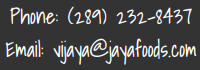
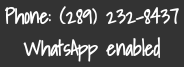
Changes to menus, font and contact info

diff --git a/css/text-menu.css b/css/text-menu.css
@@ -66,27 +66,27 @@
 }
 
 .text-menu .category.category-category1 {
-  background-image: linear-gradient(to top, rgba(238, 232, 170, 1), rgba(222, 184, 135, 1));
+  background-image: linear-gradient(to top, rgba(255, 215, 0, 1), rgba(255, 69, 0, 1));
 }
 
 .text-menu .category.category-category2 {
-  background-image: linear-gradient(to top, rgba(205, 133, 63, 1), rgba(160, 82, 45, 1));
+  background-image: linear-gradient(to top, rgba(238, 232, 170, 1), rgba(222, 184, 135, 1));
 }
 
 .text-menu .category.category-category3 {
-  background-image: linear-gradient(to top, rgba(255, 216, 92, 0.8), rgba(255, 101, 68, 1));
+  background-image: linear-gradient(to top, rgba(205, 133, 63, 1), rgba(160, 82, 45, 1));
 }
 
 .text-menu .category.category-category4 {
-  background-image: linear-gradient(to top, rgba(210, 105, 30, 1), rgba(139, 69, 19, 1));
+  background-image: linear-gradient(to top, rgba(255, 216, 92, 0.8), rgba(255, 101, 68, 1));
 }
 
 .text-menu .category.category-category5 {
-  background-image: linear-gradient(to top, rgba(50, 205, 50, 1), rgba(34, 139, 34, 1));
+  background-image: linear-gradient(to top, rgba(210, 105, 30, 1), rgba(139, 69, 19, 1));
 }
 
 .text-menu .category.category-category6 {
-  background-image: linear-gradient(to top, rgba(255, 215, 0, 1), rgba(255, 69, 0, 1));
+  background-image: linear-gradient(to top, rgba(50, 205, 50, 1), rgba(34, 139, 34, 1));
 }
 
 .text-menu .category.category-category7 {

diff --git a/index.html b/index.html
@@ -14,10 +14,9 @@
 
   <link rel="preconnect" href="https://fonts.googleapis.com">
   <link rel="preconnect" href="https://fonts.gstatic.com" crossorigin>
-<!-- 
   <link href="https://fonts.googleapis.com/css2?family=Shadows+Into+Light&display=swap" rel="stylesheet">
   <link href="https://fonts.googleapis.com/css2?family=Poppins:wght@400;700&display=swap" rel="stylesheet">
- -->
+
   <script src="https://cdnjs.cloudflare.com/ajax/libs/clipboard.js/2.0.8/clipboard.min.js"></script>
 
   <link rel="stylesheet" href="css/top-bar.css">
@@ -27,7 +26,7 @@
   <!-- <link rel="stylesheet" href="css/intro-pane.css"> -->
   <link rel="stylesheet" href="css/shopping.css">
   <link rel="stylesheet" href="css/search-results.css">
-  <link rel="stylesheet" href="css/contact-info.css">
+  <link rel="stylesheet" href="css/bottom-bar.css">
   <link rel="stylesheet" href="css/media.css">
 </head>
 <body>
@@ -112,11 +111,13 @@
   <script src="js/menus.js"></script>
 
   <div class="contact-info">
-<!--     
-    <p><strong>Phone: (123) 456-7890</strong></p>
+<!--
+    <strong>Phone: (123) 456-7890</strong><br>
+    <strong>WhatsApp enabled</strong>
     <p><strong>Email: info@example.com</strong></p>
--->
-  <img src="img/contact-info.png" alt="Contact information">
+ -->
+    <img src="img/contact-info.png" alt="Contact information">
+    <p>Order a week ahead and pickup from North Oshawa.</p>
   </div>
 </body>
 </html>

diff --git a/css/bottom-bar.css b/css/bottom-bar.css
@@ -1,7 +1,7 @@
 .contact-info {
   background-color: #333333; 
   color: white;
-/*   font-family: 'Shadows Into Light', cursive, sans-serif; */
+  font-family: 'Shadows Into Light', cursive, sans-serif;
   font-size: 20px;
   padding: 20px;
   text-align: center;
